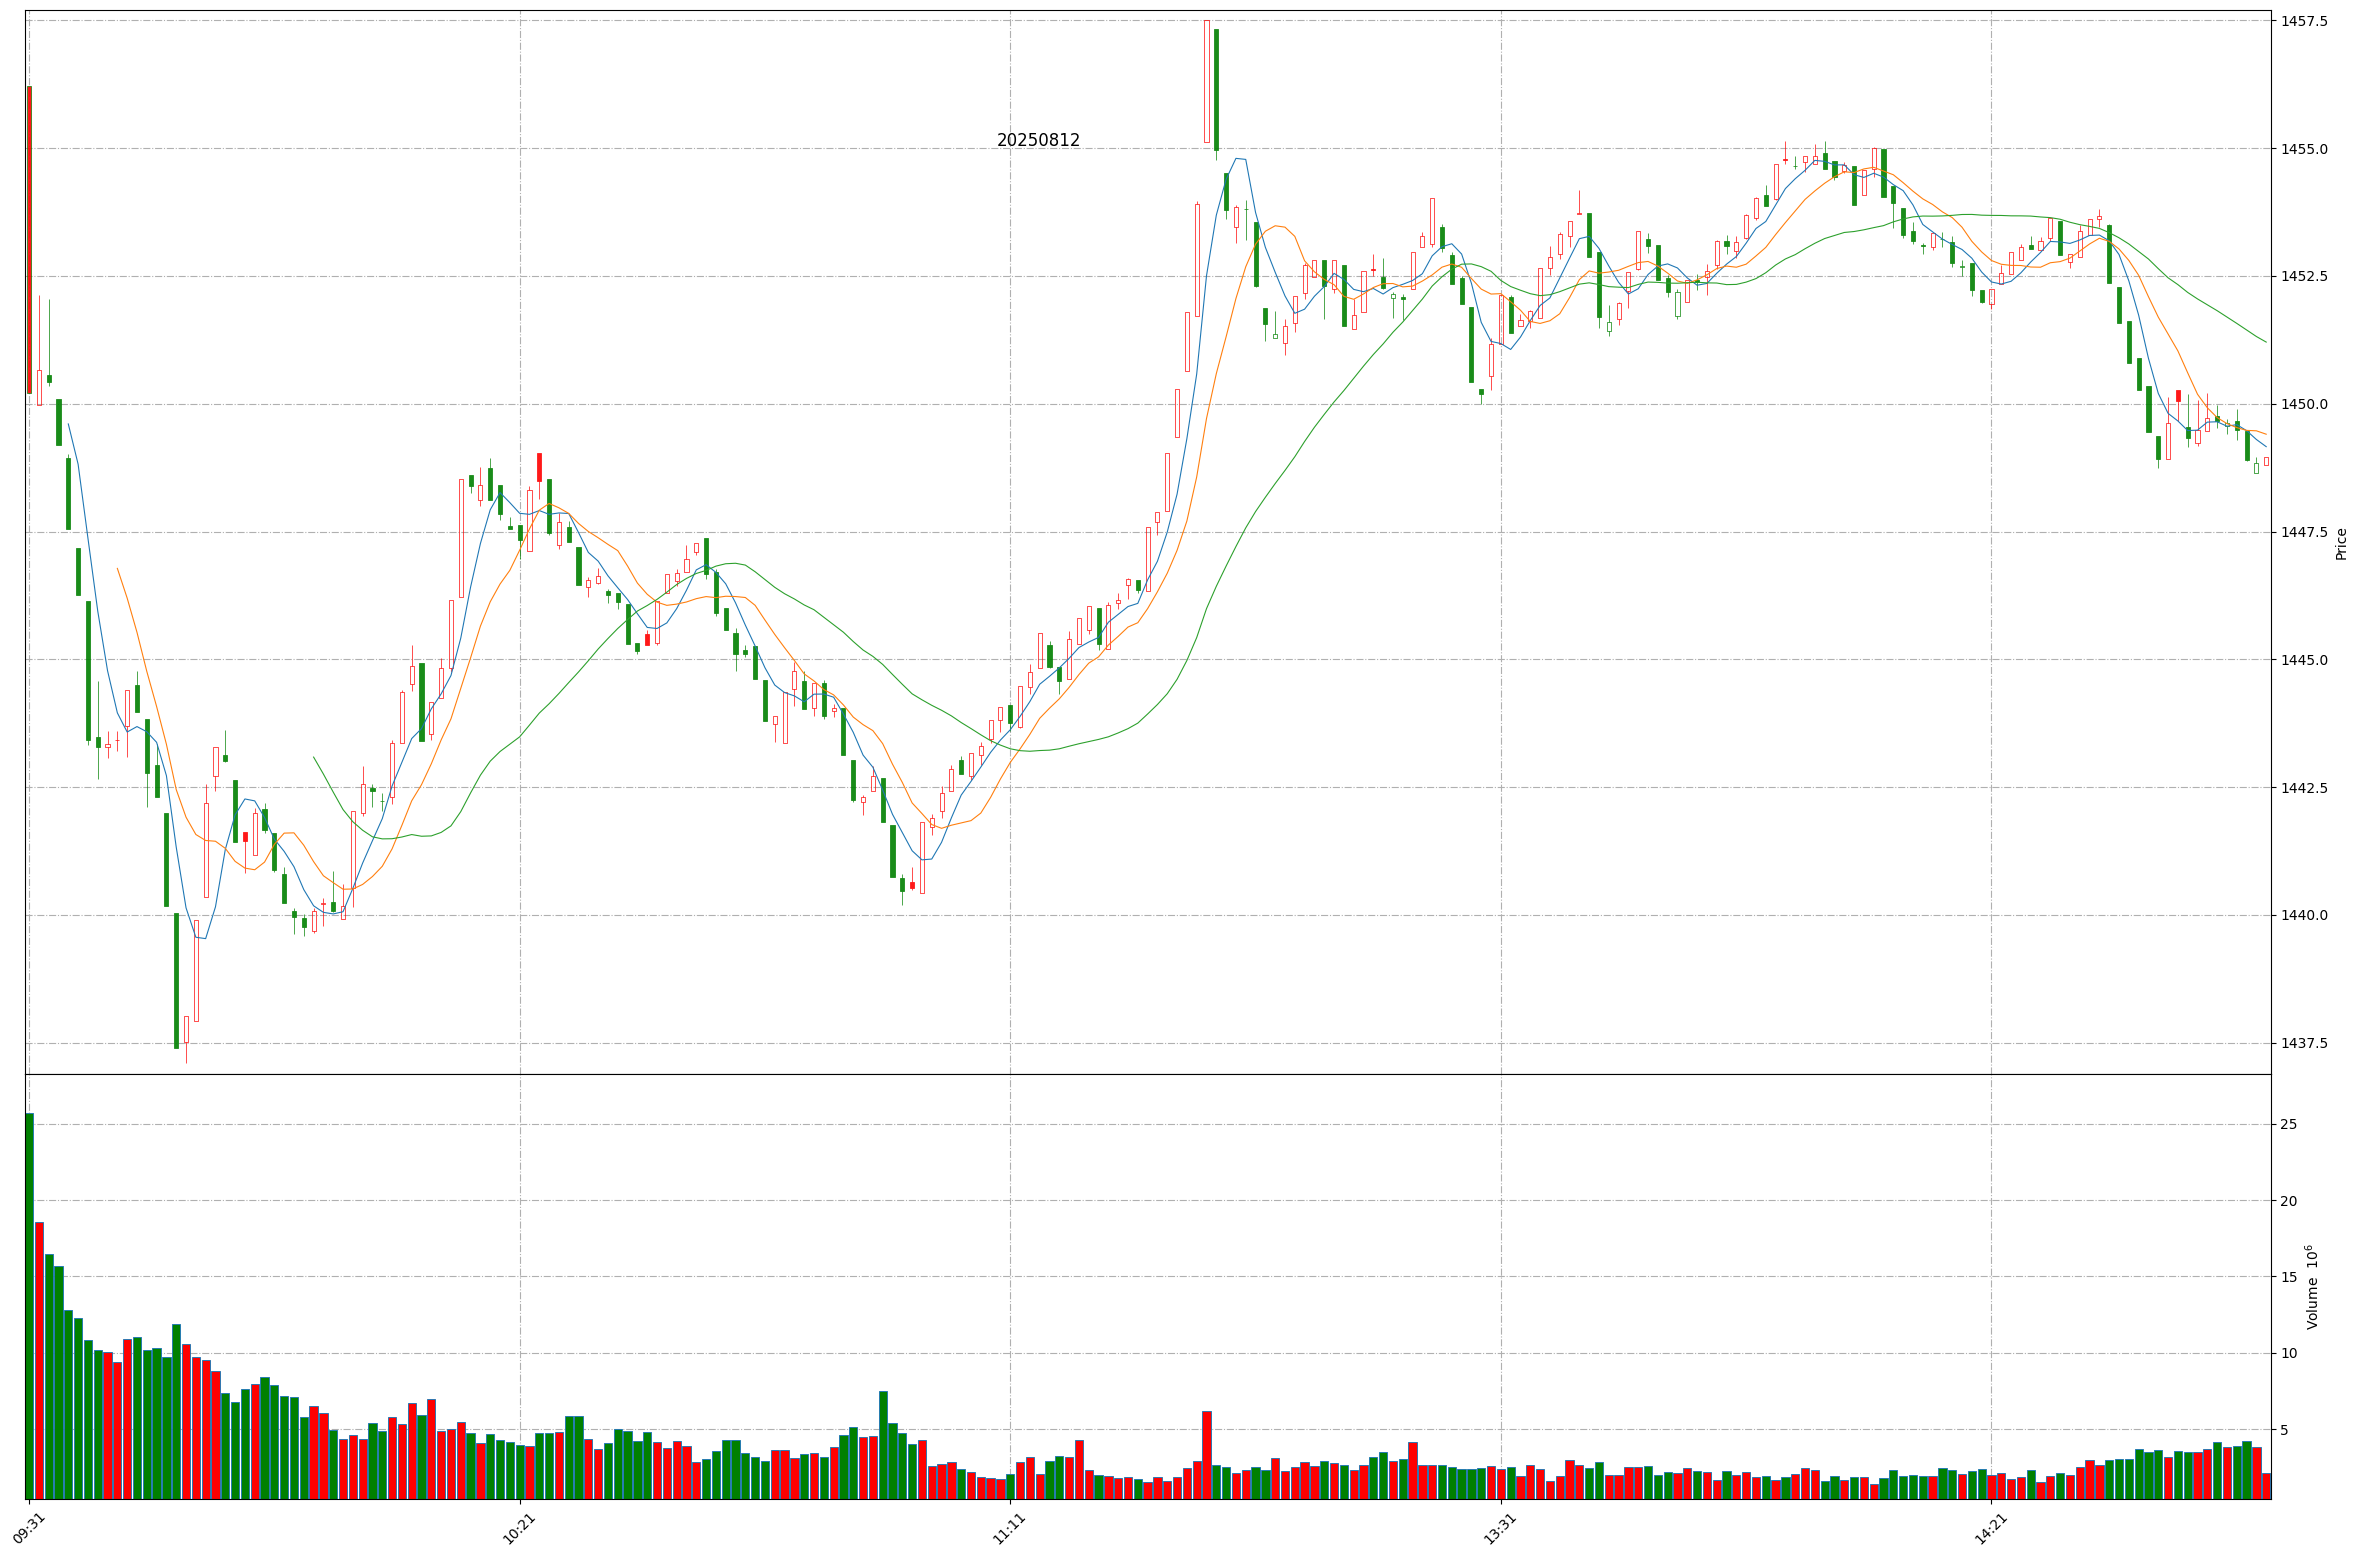
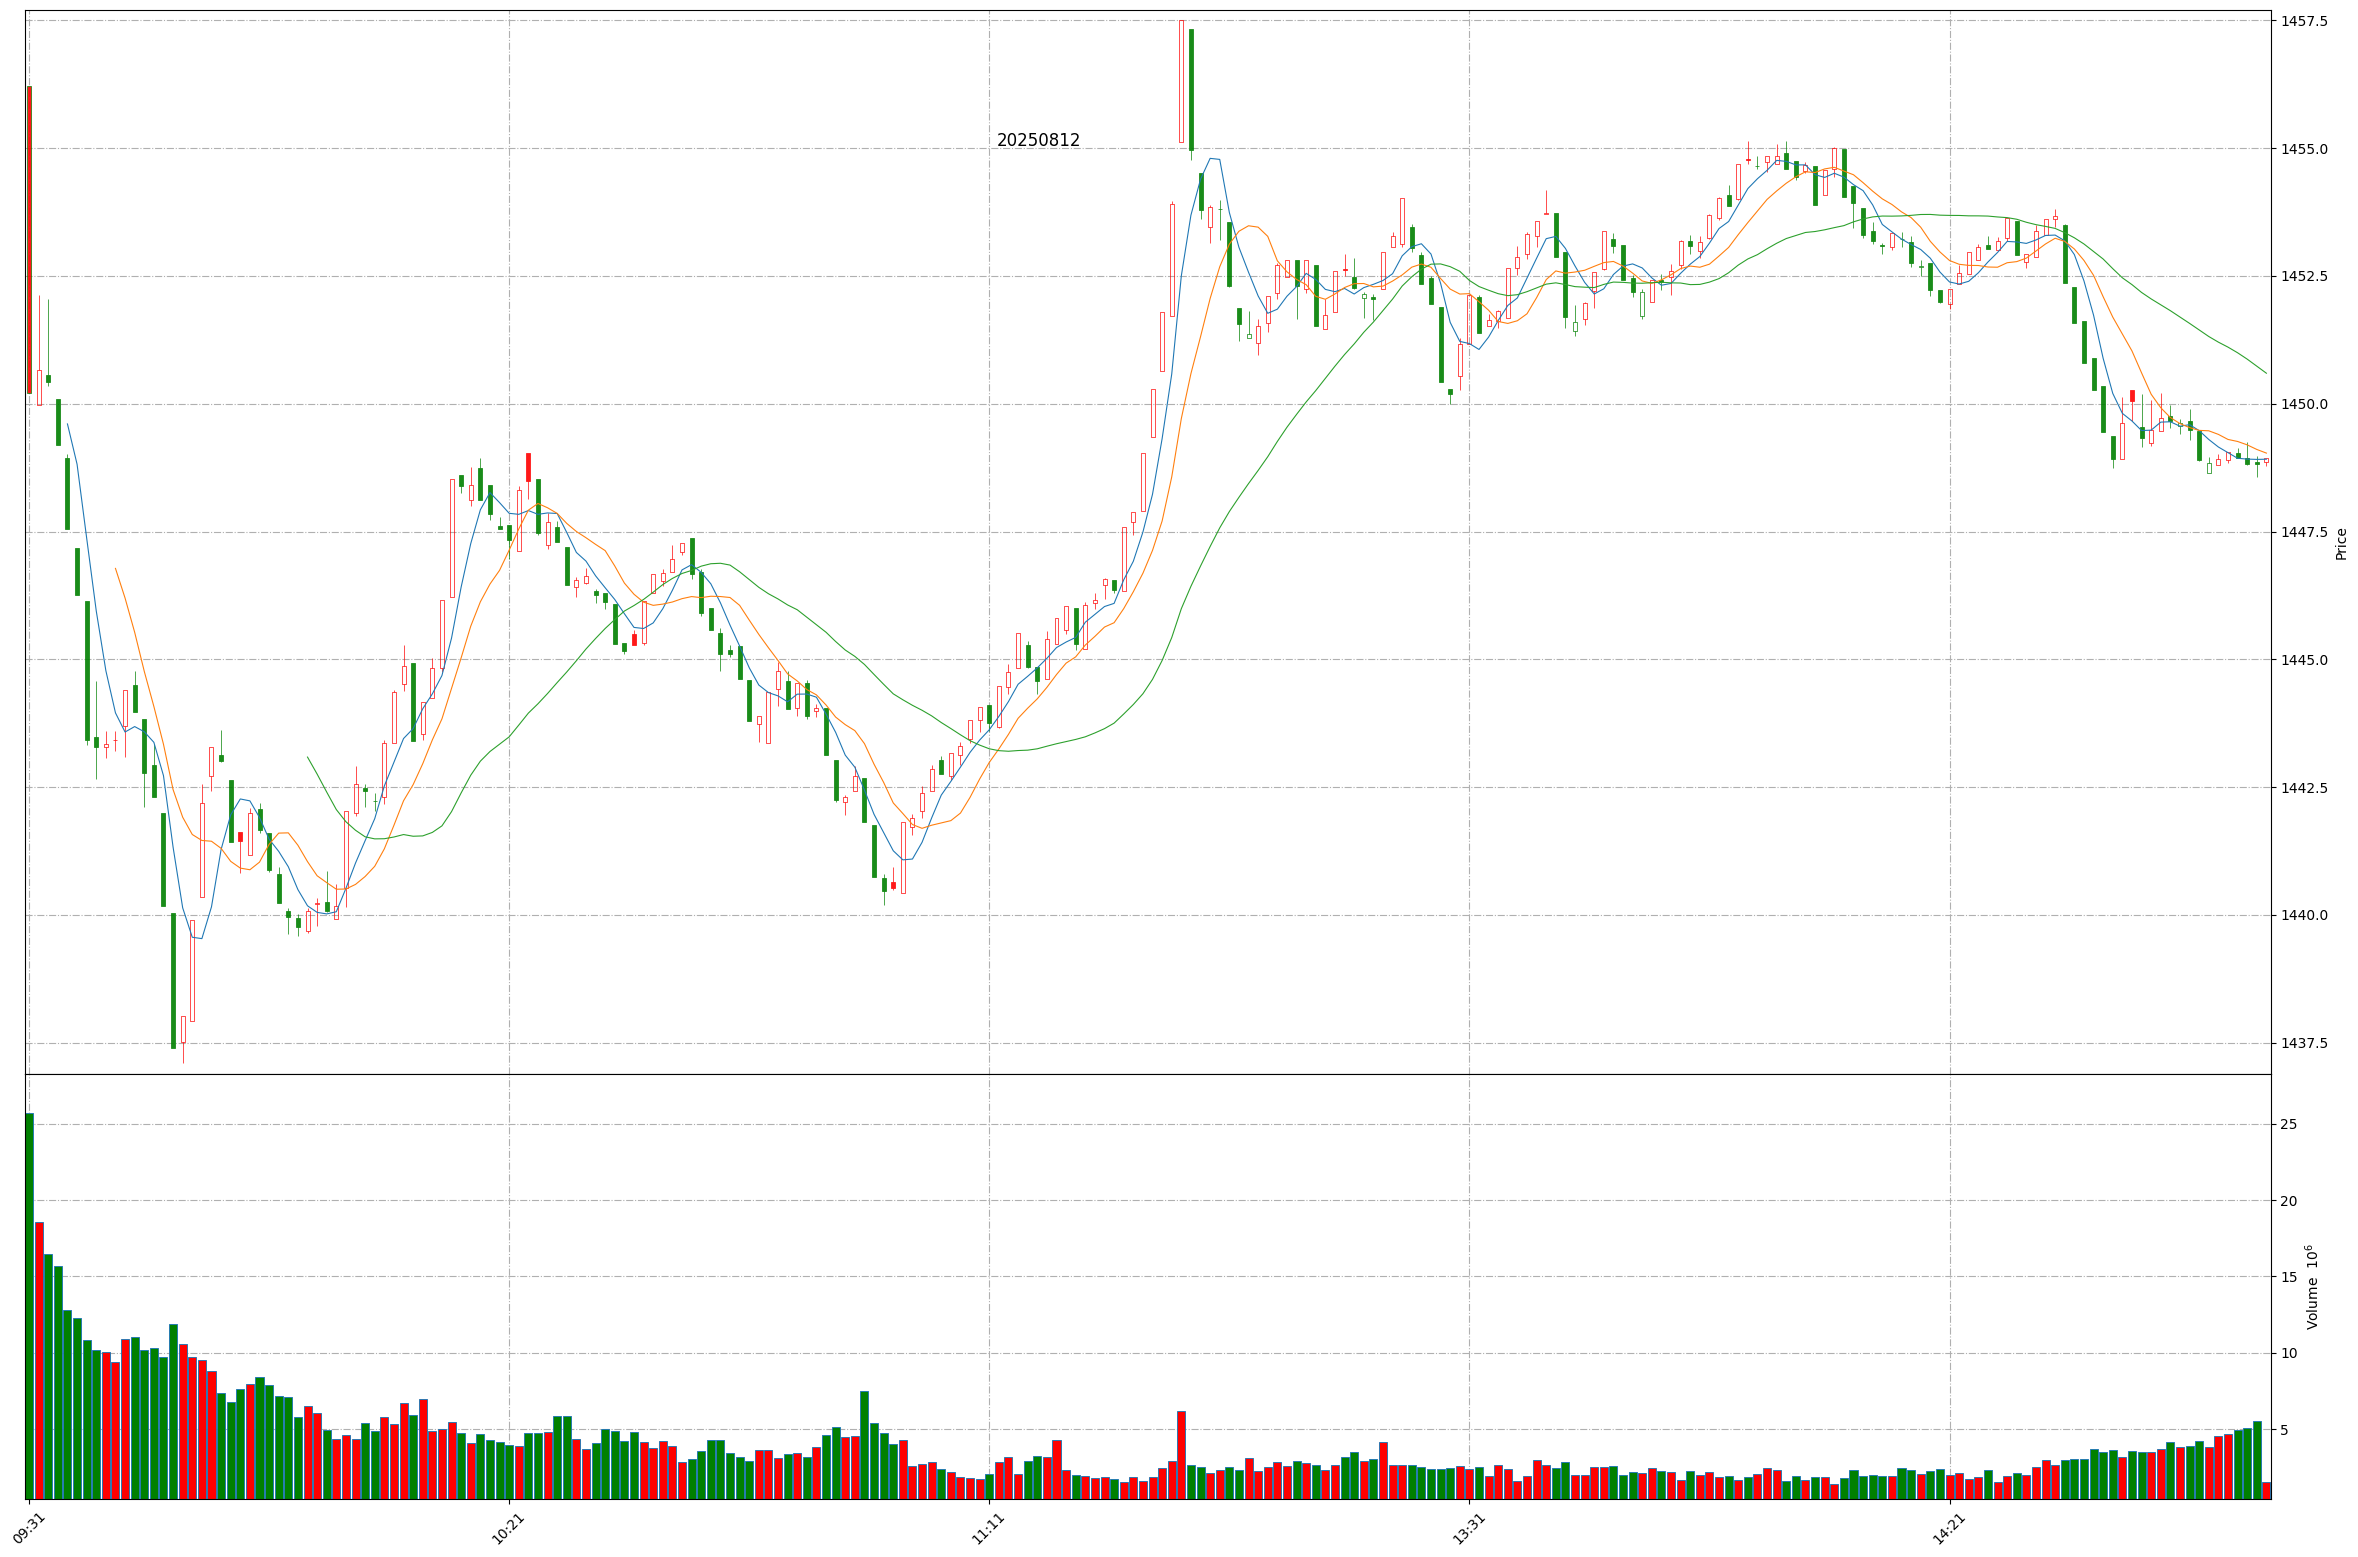
Github action update at 2025-08-12 14:53:34.

diff --git a/README.md b/README.md
@@ -1,11 +1,11 @@
 
 # Daily-A-share-market-quotes 每日 A 股指数（5min 更新）- 20250812
 
-### 上证指数 20250812 14:48
+### 上证指数 20250812 14:53
 ![](./fig/2025/8/20250812-sh000001.png)
 
-### 深证成指 20250812 14:48
+### 深证成指 20250812 14:53
 ![](./fig/2025/8/20250812-sz399001.png)
 
-### 北证50 20250812 14:48
+### 北证50 20250812 14:53
 ![](./fig/2025/8/20250812-bj899050.png)
